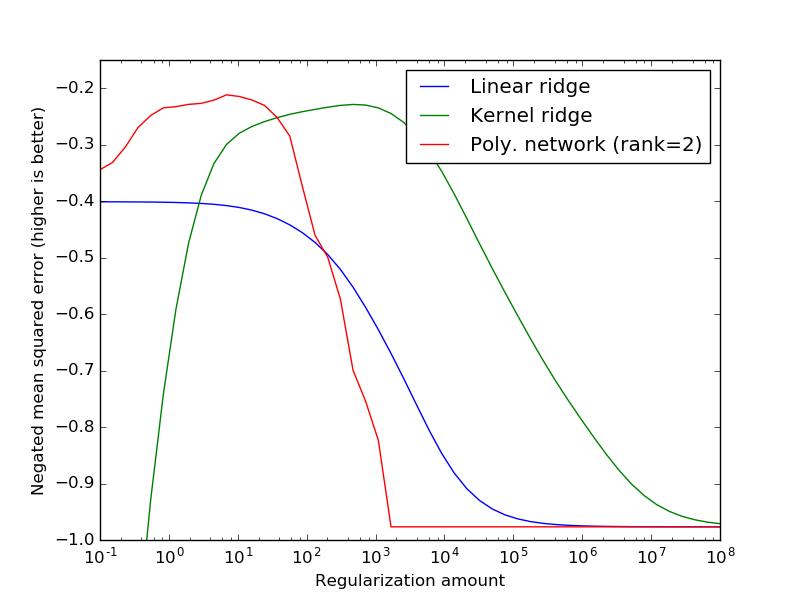
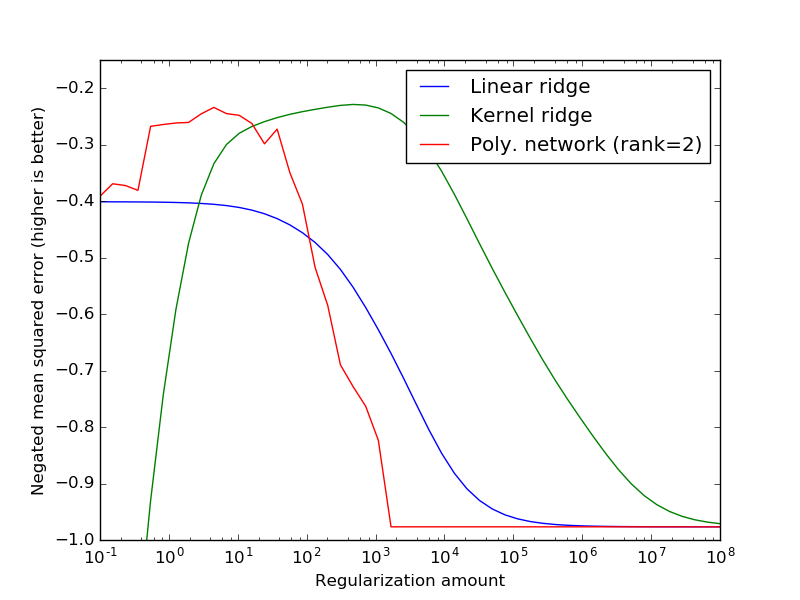
Pushing the docs for revision for branch: master, commit 14fbae4d66927b1217f847320352832f5794d7f2

diff --git a/_modules/polylearn/base.html b/_modules/polylearn/base.html
@@ -110,28 +110,15 @@
 <span class="kn">from</span> <span class="nn">abc</span> <span class="kn">import</span> <span class="n">ABCMeta</span>
 <span class="kn">import</span> <span class="nn">numpy</span> <span class="kn">as</span> <span class="nn">np</span>
 <span class="kn">from</span> <span class="nn">sklearn.base</span> <span class="kn">import</span> <span class="n">BaseEstimator</span><span class="p">,</span> <span class="n">ClassifierMixin</span><span class="p">,</span> <span class="n">RegressorMixin</span>
-<span class="kn">from</span> <span class="nn">sklearn.preprocessing</span> <span class="kn">import</span> <span class="n">LabelBinarizer</span><span class="p">,</span> <span class="n">add_dummy_feature</span>
+<span class="kn">from</span> <span class="nn">sklearn.preprocessing</span> <span class="kn">import</span> <span class="n">LabelBinarizer</span>
 <span class="kn">from</span> <span class="nn">sklearn.utils.validation</span> <span class="kn">import</span> <span class="n">check_X_y</span>
 <span class="kn">from</span> <span class="nn">sklearn.utils.multiclass</span> <span class="kn">import</span> <span class="n">type_of_target</span>
 <span class="kn">from</span> <span class="nn">sklearn.externals</span> <span class="kn">import</span> <span class="n">six</span>
-
-<span class="k">try</span><span class="p">:</span>
-    <span class="kn">from</span> <span class="nn">sklearn.exceptions</span> <span class="kn">import</span> <span class="n">NotFittedError</span>
-<span class="k">except</span> <span class="ne">ImportError</span><span class="p">:</span>
-    <span class="k">class</span> <span class="nc">NotFittedError</span><span class="p">(</span><span class="ne">ValueError</span><span class="p">,</span> <span class="ne">AttributeError</span><span class="p">):</span>
-        <span class="k">pass</span>
 
 <span class="kn">from</span> <span class="nn">.loss</span> <span class="kn">import</span> <span class="n">CLASSIFICATION_LOSSES</span><span class="p">,</span> <span class="n">REGRESSION_LOSSES</span>
 
 
 <span class="k">class</span> <span class="nc">_BasePoly</span><span class="p">(</span><span class="n">six</span><span class="o">.</span><span class="n">with_metaclass</span><span class="p">(</span><span class="n">ABCMeta</span><span class="p">,</span> <span class="n">BaseEstimator</span><span class="p">)):</span>
-
-    <span class="k">def</span> <span class="nf">_augment</span><span class="p">(</span><span class="bp">self</span><span class="p">,</span> <span class="n">X</span><span class="p">):</span>
-        <span class="k">if</span> <span class="bp">self</span><span class="o">.</span><span class="n">fit_lower</span> <span class="o">==</span> <span class="s1">&#39;augment&#39;</span><span class="p">:</span>
-            <span class="n">k</span> <span class="o">=</span> <span class="mi">1</span> <span class="k">if</span> <span class="bp">self</span><span class="o">.</span><span class="n">fit_linear</span> <span class="o">==</span> <span class="s1">&#39;augment&#39;</span> <span class="k">else</span> <span class="mi">2</span>
-            <span class="k">for</span> <span class="n">_</span> <span class="ow">in</span> <span class="nb">range</span><span class="p">(</span><span class="bp">self</span><span class="o">.</span><span class="n">degree</span> <span class="o">-</span> <span class="n">k</span><span class="p">):</span>
-                <span class="n">X</span> <span class="o">=</span> <span class="n">add_dummy_feature</span><span class="p">(</span><span class="n">X</span><span class="p">,</span> <span class="n">value</span><span class="o">=</span><span class="mi">1</span><span class="p">)</span>
-        <span class="k">return</span> <span class="n">X</span>
 
     <span class="k">def</span> <span class="nf">_get_loss</span><span class="p">(</span><span class="bp">self</span><span class="p">,</span> <span class="n">loss</span><span class="p">):</span>
         <span class="c1"># classification losses</span>

diff --git a/_modules/polylearn/factorization_machine.html b/_modules/polylearn/factorization_machine.html
@@ -113,6 +113,7 @@
 <span class="kn">from</span> <span class="nn">abc</span> <span class="kn">import</span> <span class="n">ABCMeta</span><span class="p">,</span> <span class="n">abstractmethod</span>
 
 <span class="kn">import</span> <span class="nn">numpy</span> <span class="kn">as</span> <span class="nn">np</span>
+<span class="kn">from</span> <span class="nn">sklearn.preprocessing</span> <span class="kn">import</span> <span class="n">add_dummy_feature</span>
 <span class="kn">from</span> <span class="nn">sklearn.utils</span> <span class="kn">import</span> <span class="n">check_random_state</span>
 <span class="kn">from</span> <span class="nn">sklearn.utils.validation</span> <span class="kn">import</span> <span class="n">check_array</span>
 <span class="kn">from</span> <span class="nn">sklearn.utils.extmath</span> <span class="kn">import</span> <span class="n">safe_sparse_dot</span><span class="p">,</span> <span class="n">row_norms</span>
@@ -152,6 +153,14 @@
         <span class="bp">self</span><span class="o">.</span><span class="n">verbose</span> <span class="o">=</span> <span class="n">verbose</span>
         <span class="bp">self</span><span class="o">.</span><span class="n">compute_loss</span> <span class="o">=</span> <span class="n">compute_loss</span>
         <span class="bp">self</span><span class="o">.</span><span class="n">random_state</span> <span class="o">=</span> <span class="n">random_state</span>
+
+    <span class="k">def</span> <span class="nf">_augment</span><span class="p">(</span><span class="bp">self</span><span class="p">,</span> <span class="n">X</span><span class="p">):</span>
+        <span class="c1"># for factorization machines, we add a dummy column for each order</span>
+        <span class="k">if</span> <span class="bp">self</span><span class="o">.</span><span class="n">fit_lower</span> <span class="o">==</span> <span class="s1">&#39;augment&#39;</span><span class="p">:</span>
+            <span class="n">k</span> <span class="o">=</span> <span class="mi">1</span> <span class="k">if</span> <span class="bp">self</span><span class="o">.</span><span class="n">fit_linear</span> <span class="o">==</span> <span class="s1">&#39;augment&#39;</span> <span class="k">else</span> <span class="mi">2</span>
+            <span class="k">for</span> <span class="n">_</span> <span class="ow">in</span> <span class="nb">range</span><span class="p">(</span><span class="bp">self</span><span class="o">.</span><span class="n">degree</span> <span class="o">-</span> <span class="n">k</span><span class="p">):</span>
+                <span class="n">X</span> <span class="o">=</span> <span class="n">add_dummy_feature</span><span class="p">(</span><span class="n">X</span><span class="p">,</span> <span class="n">value</span><span class="o">=</span><span class="mi">1</span><span class="p">)</span>
+        <span class="k">return</span> <span class="n">X</span>
 
     <span class="k">def</span> <span class="nf">fit</span><span class="p">(</span><span class="bp">self</span><span class="p">,</span> <span class="n">X</span><span class="p">,</span> <span class="n">y</span><span class="p">):</span>
         <span class="sd">&quot;&quot;&quot;Fit factorization machine to training data.</span>

diff --git a/_modules/polylearn/polynomial_network.html b/_modules/polylearn/polynomial_network.html
@@ -115,6 +115,7 @@
 <span class="kn">from</span> <span class="nn">abc</span> <span class="kn">import</span> <span class="n">ABCMeta</span><span class="p">,</span> <span class="n">abstractmethod</span>
 
 <span class="kn">import</span> <span class="nn">numpy</span> <span class="kn">as</span> <span class="nn">np</span>
+<span class="kn">from</span> <span class="nn">sklearn.preprocessing</span> <span class="kn">import</span> <span class="n">add_dummy_feature</span>
 <span class="kn">from</span> <span class="nn">sklearn.utils</span> <span class="kn">import</span> <span class="n">check_random_state</span>
 <span class="kn">from</span> <span class="nn">sklearn.utils.extmath</span> <span class="kn">import</span> <span class="n">safe_sparse_dot</span>
 <span class="kn">from</span> <span class="nn">sklearn.utils.validation</span> <span class="kn">import</span> <span class="n">check_array</span>
@@ -150,6 +151,12 @@
         <span class="bp">self</span><span class="o">.</span><span class="n">verbose</span> <span class="o">=</span> <span class="n">verbose</span>
         <span class="bp">self</span><span class="o">.</span><span class="n">compute_loss</span> <span class="o">=</span> <span class="n">compute_loss</span>
         <span class="bp">self</span><span class="o">.</span><span class="n">random_state</span> <span class="o">=</span> <span class="n">random_state</span>
+
+    <span class="k">def</span> <span class="nf">_augment</span><span class="p">(</span><span class="bp">self</span><span class="p">,</span> <span class="n">X</span><span class="p">):</span>
+        <span class="c1"># for polynomial nets, we add a single dummy column</span>
+        <span class="k">if</span> <span class="bp">self</span><span class="o">.</span><span class="n">fit_linear</span> <span class="o">==</span> <span class="s1">&#39;augment&#39;</span> <span class="ow">or</span> <span class="bp">self</span><span class="o">.</span><span class="n">fit_lower</span> <span class="o">==</span> <span class="s1">&#39;augment&#39;</span><span class="p">:</span>
+            <span class="n">X</span> <span class="o">=</span> <span class="n">add_dummy_feature</span><span class="p">(</span><span class="n">X</span><span class="p">,</span> <span class="n">value</span><span class="o">=</span><span class="mi">1</span><span class="p">)</span>
+        <span class="k">return</span> <span class="n">X</span>
 
     <span class="k">def</span> <span class="nf">fit</span><span class="p">(</span><span class="bp">self</span><span class="p">,</span> <span class="n">X</span><span class="p">,</span> <span class="n">y</span><span class="p">):</span>
         <span class="sd">&quot;&quot;&quot;Fit polynomial network to training data.</span>

diff --git a/auto_examples/plot_regularization_path.html b/auto_examples/plot_regularization_path.html
@@ -191,8 +191,8 @@ for the <cite>beta</cite> regularization hyperparameter.</p>
 <a href="http://matplotlib.org/api/pyplot_api.html#matplotlib.pyplot.show"><span class="n">plt</span><span class="o">.</span><span class="n">show</span></a><span class="p">()</span>
 </pre></div>
 </div>
-<p><strong>Total running time of the example:</strong>  34.56 seconds
-( 0 minutes  34.56 seconds)</p>
+<p><strong>Total running time of the example:</strong>  34.17 seconds
+( 0 minutes  34.17 seconds)</p>
 </div>
 
 
